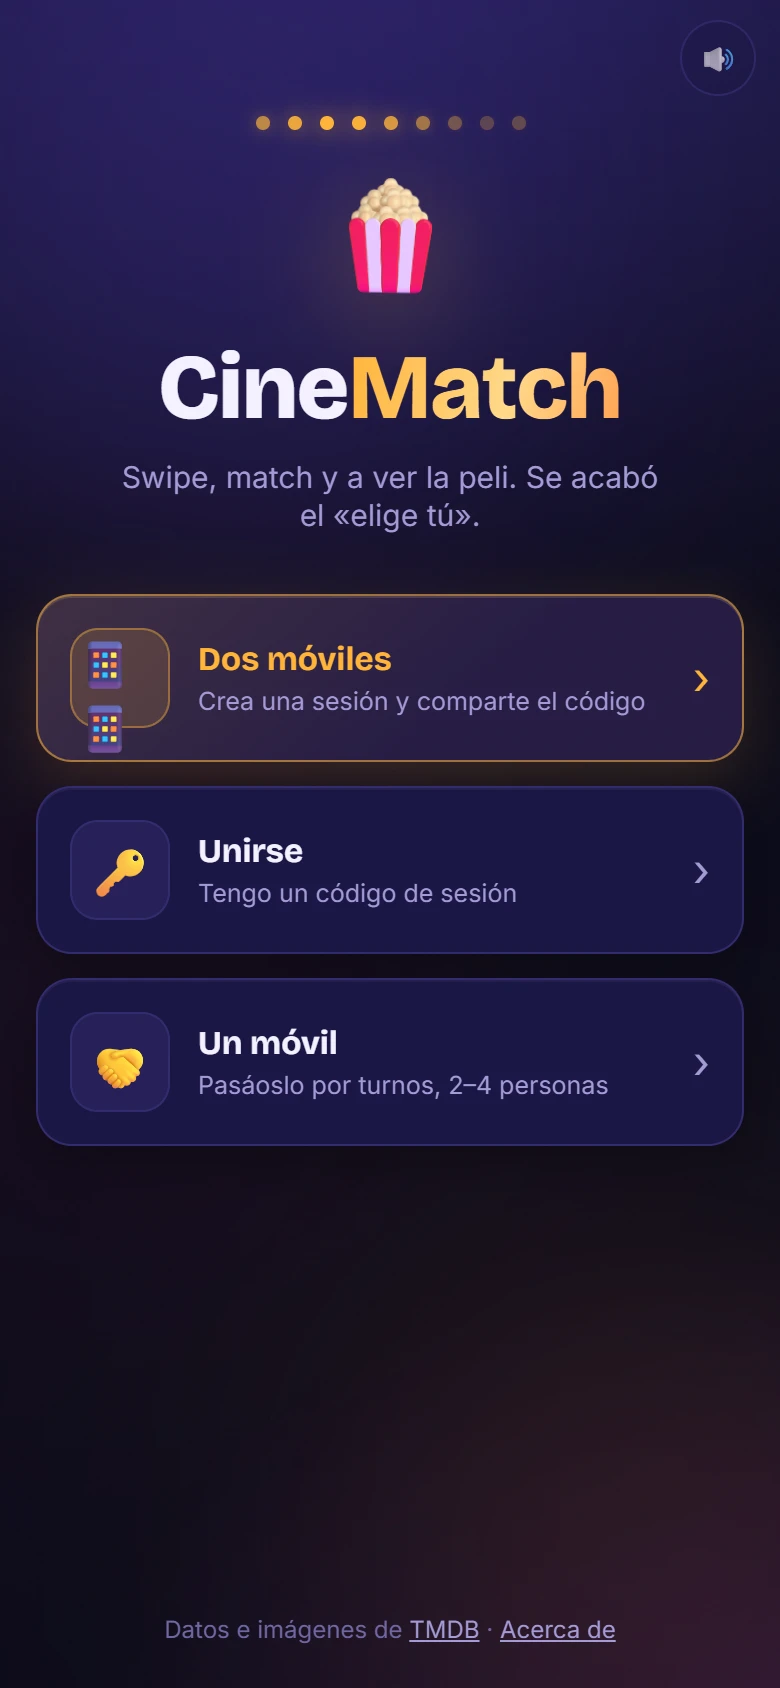
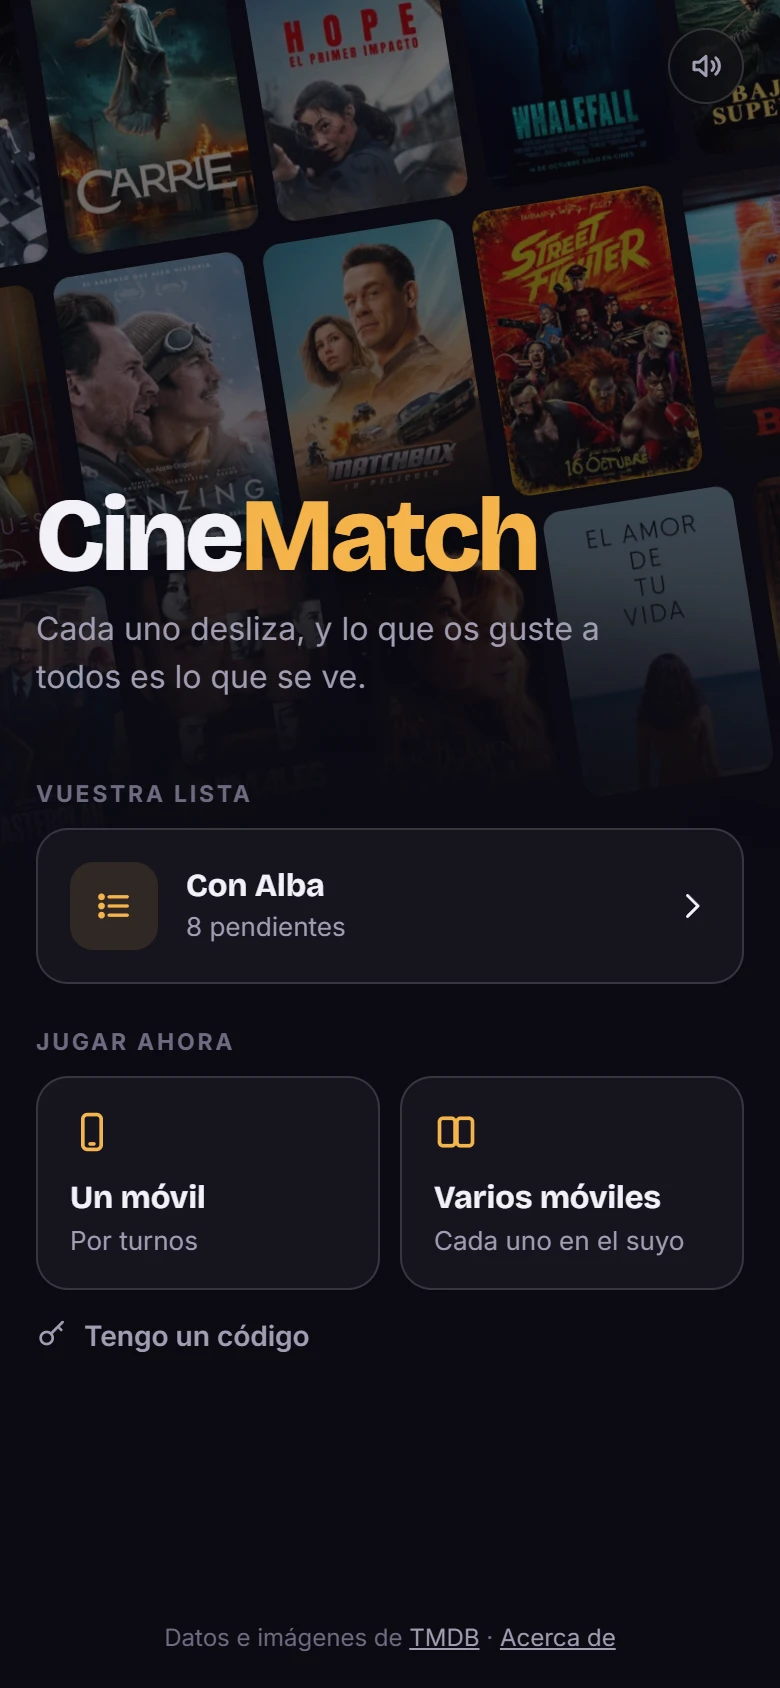
CineMatch: demo publicada, texto y capturas de la nueva version

diff --git a/index.html b/index.html
@@ -54,8 +54,8 @@
           <a class="btn btn-ghost" href="https://github.com/seakerop" target="_blank" rel="noreferrer">GitHub ↗</a>
         </div>
         <ul class="proof reveal" aria-label="En cifras">
-          <li><b>5</b><span>proyectos publicados</span></li>
-          <li><b>4</b><span>con demo en vivo</span></li>
+          <li><b>6</b><span>proyectos publicados</span></li>
+          <li><b>5</b><span>con demo en vivo</span></li>
           <li><b>C2</b><span>de inglés</span></li>
         </ul>
       </div>
@@ -206,19 +206,20 @@
 
         <article class="card reveal">
           <div class="card-shot shot-cine">
-            <figure class="phone"><img src="img/cinematch/3-swipe.webp" alt="Catálogo de películas en CineMatch" loading="lazy" /></figure>
+            <figure class="phone"><img src="img/cinematch/2-descubrir.webp" alt="Carta de una serie en CineMatch" loading="lazy" /></figure>
           </div>
           <div class="card-body">
-            <div class="card-top"><h3>CineMatch</h3><span class="badge badge-wip">En desarrollo</span></div>
+            <div class="card-top"><h3>CineMatch</h3><span class="tag mono">Ocio</span></div>
             <p>
-              Aplicación para elegir película entre varias personas: cada una valora el mismo catálogo desde su móvil
-              y la app muestra las coincidencias. Sesiones en tiempo real entre dispositivos y catálogo de TMDB filtrado
-              por plataforma, duración y títulos ya vistos.
+              Aplicación para decidir qué ver en pareja o en grupo: cada persona valora los mismos títulos y la app
+              muestra las coincidencias. Incluye una lista compartida que se va rellenando y guarda los pendientes,
+              partidas en tiempo real entre varios móviles y un modo de un solo móvil por turnos. El catálogo procede
+              de TMDB, filtrado por plataforma, género y duración, con el tráiler y la plataforma de cada título.
             </p>
-            <div class="stack"><span>React</span><span>Firebase</span><span>TMDB API</span><span>PWA</span></div>
+            <div class="stack"><span>React</span><span>Firebase</span><span>TMDB API</span><span>Vercel</span><span>PWA</span></div>
             <div class="card-links">
+              <a href="https://cinematch-wine-xi.vercel.app" target="_blank" rel="noreferrer">Demo ↗</a>
               <button type="button" class="shots-link" data-shots="cinematch">Capturas →</button>
-              <span class="soon">Demo próximamente</span>
             </div>
           </div>
         </article>
@@ -402,10 +403,11 @@
       cinematch: {
         title: 'CineMatch',
         shots: [
-          { src: 'img/cinematch/1-inicio.webp', cap: 'Tres modos: sesión entre dos móviles con código, unirse a una sesión existente o un solo móvil por turnos.' },
-          { src: 'img/cinematch/2-setup.webp', cap: 'Configuración de la sesión: plataformas, tipo de contenido, año, duración máxima y número de títulos.' },
-          { src: 'img/cinematch/3-swipe.webp', cap: 'Cada participante valora los títulos del catálogo. Los datos y carteles proceden de TMDB.' },
-          { src: 'img/cinematch/4-match.webp', cap: 'Resultado: los títulos que han gustado a todos los participantes.' },
+          { src: 'img/cinematch/1-inicio.webp', cap: 'Inicio: acceso a la lista compartida y a las partidas con uno o varios móviles.' },
+          { src: 'img/cinematch/2-descubrir.webp', cap: 'Cada persona valora los títulos deslizando la carta. Los datos y carteles proceden de TMDB.' },
+          { src: 'img/cinematch/3-ficha.webp', cap: 'Ficha de cada título con la sinopsis, el tráiler y enlace a las plataformas donde está disponible.' },
+          { src: 'img/cinematch/4-match.webp', cap: 'Cuando todos eligen el mismo título, la app lo indica en ese momento.' },
+          { src: 'img/cinematch/5-pendientes.webp', cap: 'Las coincidencias se guardan en la lista de pendientes. La ruleta elige una al azar.' },
         ],
       },
     }

diff --git a/en/index.html b/en/index.html
@@ -54,8 +54,8 @@
           <a class="btn btn-ghost" href="https://github.com/seakerop" target="_blank" rel="noreferrer">GitHub ↗</a>
         </div>
         <ul class="proof reveal" aria-label="In numbers">
-          <li><b>5</b><span>published projects</span></li>
-          <li><b>4</b><span>with a live demo</span></li>
+          <li><b>6</b><span>published projects</span></li>
+          <li><b>5</b><span>with a live demo</span></li>
           <li><b>C2</b><span>English</span></li>
         </ul>
       </div>
@@ -207,19 +207,20 @@
 
         <article class="card reveal">
           <div class="card-shot shot-cine">
-            <figure class="phone"><img src="../img/cinematch/3-swipe.webp" alt="Film catalogue in CineMatch" loading="lazy" /></figure>
+            <figure class="phone"><img src="../img/cinematch/2-descubrir.webp" alt="A series card in CineMatch" loading="lazy" /></figure>
           </div>
           <div class="card-body">
-            <div class="card-top"><h3>CineMatch</h3><span class="badge badge-wip">In progress</span></div>
+            <div class="card-top"><h3>CineMatch</h3><span class="tag mono">Leisure</span></div>
             <p>
-              An app for choosing a film as a group: everyone rates the same catalogue on their own phone and the app
-              shows the matches. Real-time sessions across devices and a TMDB catalogue filtered by platform, running
-              time and titles already watched.
+              An app for deciding what to watch as a couple or a group: everyone rates the same titles and the app
+              shows the matches. It includes a shared list that keeps filling up and stores what is left to watch,
+              real-time sessions across several phones and a single-phone mode taking turns. The catalogue comes from
+              TMDB, filtered by platform, genre and running time, with each title's trailer and streaming service.
             </p>
-            <div class="stack"><span>React</span><span>Firebase</span><span>TMDB API</span><span>PWA</span></div>
+            <div class="stack"><span>React</span><span>Firebase</span><span>TMDB API</span><span>Vercel</span><span>PWA</span></div>
             <div class="card-links">
+              <a href="https://cinematch-wine-xi.vercel.app" target="_blank" rel="noreferrer">Demo ↗</a>
               <button type="button" class="shots-link" data-shots="cinematch">Screenshots →</button>
-              <span class="soon">Demo coming soon</span>
             </div>
           </div>
         </article>
@@ -402,10 +403,11 @@
       cinematch: {
         title: 'CineMatch',
         shots: [
-          { src: '../img/cinematch/1-inicio.webp', cap: 'Three modes: a session between two phones with a code, joining an existing session, or a single phone taking turns.' },
-          { src: '../img/cinematch/2-setup.webp', cap: 'Session setup: platforms, content type, year, maximum running time and number of titles.' },
-          { src: '../img/cinematch/3-swipe.webp', cap: 'Each participant rates the titles in the catalogue. Data and posters come from TMDB.' },
-          { src: '../img/cinematch/4-match.webp', cap: 'Result: the titles everyone liked.' },
+          { src: '../img/cinematch/1-inicio.webp', cap: 'Home: access to the shared list and to sessions with one or several phones.' },
+          { src: '../img/cinematch/2-descubrir.webp', cap: 'Each person rates the titles by swiping the card. Data and posters come from TMDB.' },
+          { src: '../img/cinematch/3-ficha.webp', cap: 'Each title has a page with the synopsis, the trailer and links to the services where it is available.' },
+          { src: '../img/cinematch/4-match.webp', cap: 'When everyone picks the same title, the app shows it straight away.' },
+          { src: '../img/cinematch/5-pendientes.webp', cap: 'Matches are kept in the to-watch list. The wheel picks one at random.' },
         ],
       },
     }
